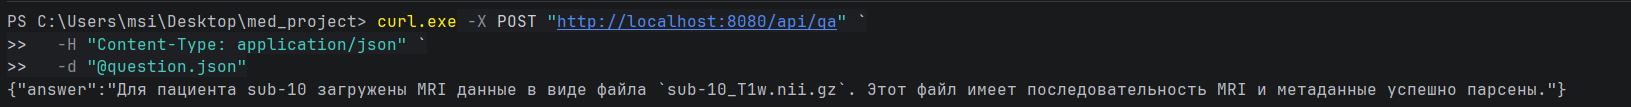
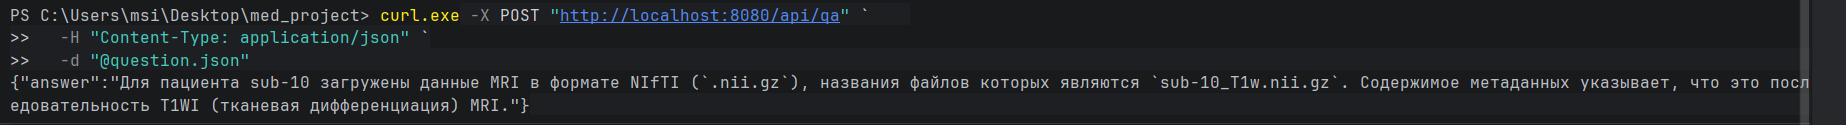
636-01 белова алёна белова юлия

Changed region(s): [[0.0, 0.0, 0.981, 1.0], [0.0, 0.0561, 0.5212, 0.5327]]

diff --git a/src/main/java/com/example/med_project/modality/parser/MriParser.java b/src/main/java/com/example/med_project/modality/parser/MriParser.java
@@ -1,27 +1,71 @@
-//
-// Source code recreated from a .class file by IntelliJ IDEA
-// (powered by Fernflower decompiler)
-//
-
 package com.example.med_project.modality.parser;
 
 import com.example.med_project.modality.Modality;
 import com.example.med_project.model.IngestContext;
+import com.example.med_project.mri.MriFeatureExtractor;
 import com.example.med_project.util.ImageUtils;
+import com.example.med_project.util.NiftiUtils;
+import com.example.med_project.util.NiftiUtils.NiftiVolume;
+import org.springframework.beans.factory.annotation.Autowired;
 import org.springframework.stereotype.Component;
+import org.springframework.web.multipart.MultipartFile;
+
+import java.nio.file.Files;
+import java.nio.file.Path;
+import java.nio.file.Paths;
+import java.io.File;
 
 @Component
 public class MriParser implements ModalityParser {
+
+    @Autowired
+    private MriFeatureExtractor featureExtractor;
+
+    @Override
     public boolean supports(Modality modality) {
         return modality == Modality.MRI;
     }
 
+    @Override
     public IngestContext parse(IngestContext context) {
-        byte[] fakeSlice = ImageUtils.placeholderPng();
-        context.imagesPng().add(fakeSlice);
-        context.putMeta("parsed", true);
-        context.putMeta("sequence", "MRI");
-        context.putMeta("sourceFile", context.file().getOriginalFilename());
+
+        MultipartFile file = context.file();
+
+        try {
+            File temp = File.createTempFile("mri", ".nii.gz");
+            file.transferTo(temp);
+
+            NiftiVolume volume = NiftiUtils.readNiftiGz(temp);
+
+            for (int z = 0; z < volume.dimZ; z++) {
+
+                float[][] slice = NiftiUtils.extractSlice(volume, z);
+
+                // PNG
+                byte[] png = ImageUtils.floatSliceToPng(slice);
+
+                Path dir = Paths.get("slices");
+                Path file_slice = dir.resolve("slice_" + z + ".png");
+
+                Files.write(file_slice, png);
+                context.imagesPng().add(png);
+
+                // TEXT (для embeddings)
+                String text = featureExtractor.extract(slice, z);
+                context.textChunks().add(text);
+            }
+
+            context.putMeta("parsed", true);
+            context.putMeta("modality", "MRI");
+            context.putMeta("slices", volume.dimZ);
+            context.putMeta("dimensions",
+                    volume.dimX + "x" + volume.dimY + "x" + volume.dimZ);
+
+
+        } catch (Exception e) {
+            throw new RuntimeException("MRI parsing failed", e);
+        }
+
         return context;
     }
 }

diff --git a/src/main/java/com/example/med_project/util/NiftiUtils.java b/src/main/java/com/example/med_project/util/NiftiUtils.java
@@ -1,10 +1,79 @@
 package com.example.med_project.util;
 
+import java.io.*;
+import java.nio.*;
+import java.util.zip.GZIPInputStream;
+
 public final class NiftiUtils {
 
-    private NiftiUtils() {
+    private NiftiUtils() {}
+
+    public static class NiftiVolume {
+        public final int dimX;
+        public final int dimY;
+        public final int dimZ;
+        public final float[] data;
+
+        public NiftiVolume(int x, int y, int z, float[] data) {
+            this.dimX = x;
+            this.dimY = y;
+            this.dimZ = z;
+            this.data = data;
+        }
+
+        public float get(int x, int y, int z) {
+            return data[z * dimX * dimY + y * dimX + x];
+        }
     }
 
-    // Заглушка.
-    // Сюда потом добавим чтение .nii.gz и извлечение 2D срезов.
+    public static NiftiVolume readNiftiGz(File file) throws IOException {
+        try (InputStream is = new GZIPInputStream(new FileInputStream(file))) {
+
+            byte[] bytes = is.readAllBytes();
+            ByteBuffer buffer = ByteBuffer.wrap(bytes);
+            buffer.order(ByteOrder.LITTLE_ENDIAN);
+
+            buffer.position(40);
+            buffer.getShort(); // dim count
+            int dimX = buffer.getShort();
+            int dimY = buffer.getShort();
+            int dimZ = buffer.getShort();
+
+            buffer.position(70);
+            short datatype = buffer.getShort();
+
+            buffer.position(108);
+            int offset = (int) buffer.getFloat();
+            buffer.position(offset);
+
+            int total = dimX * dimY * dimZ;
+            float[] data = new float[total];
+
+            if (datatype == 16) { // float32
+                for (int i = 0; i < total; i++) {
+                    data[i] = buffer.getFloat();
+                }
+            } else if (datatype == 4) { // int16
+                for (int i = 0; i < total; i++) {
+                    data[i] = buffer.getShort();
+                }
+            } else {
+                throw new UnsupportedOperationException("Unsupported datatype: " + datatype);
+            }
+
+            return new NiftiVolume(dimX, dimY, dimZ, data);
+        }
+    }
+
+    public static float[][] extractSlice(NiftiVolume volume, int z) {
+        float[][] slice = new float[volume.dimY][volume.dimX];
+
+        for (int y = 0; y < volume.dimY; y++) {
+            for (int x = 0; x < volume.dimX; x++) {
+                slice[y][x] = volume.get(x, y, z);
+            }
+        }
+
+        return slice;
+    }
 }

diff --git a/src/main/java/com/example/med_project/util/ImageUtils.java b/src/main/java/com/example/med_project/util/ImageUtils.java
@@ -1,30 +1,46 @@
 package com.example.med_project.util;
 
 import javax.imageio.ImageIO;
-import java.awt.*;
 import java.awt.image.BufferedImage;
 import java.io.ByteArrayOutputStream;
 
-public final class ImageUtils {
+public class ImageUtils {
 
-    private ImageUtils() {
+    public static byte[] floatSliceToPng(float[][] slice) {
+        int h = slice.length;
+        int w = slice[0].length;
+
+        float min = Float.MAX_VALUE;
+        float max = -Float.MAX_VALUE;
+
+        for (float[] row : slice) {
+            for (float v : row) {
+                min = Math.min(min, v);
+                max = Math.max(max, v);
+            }
+        }
+
+        BufferedImage img = new BufferedImage(w, h, BufferedImage.TYPE_BYTE_GRAY);
+
+        for (int y = 0; y < h; y++) {
+            for (int x = 0; x < w; x++) {
+                float norm = (slice[y][x] - min) / (max - min + 1e-5f);
+                int gray = (int) (norm * 255);
+
+                int rgb = (gray << 16) | (gray << 8) | gray;
+                img.setRGB(x, y, rgb);
+            }
+        }
+
+        try (ByteArrayOutputStream baos = new ByteArrayOutputStream()) {
+            ImageIO.write(img, "PNG", baos);
+            return baos.toByteArray();
+        } catch (Exception e) {
+            throw new RuntimeException(e);
+        }
     }
 
     public static byte[] placeholderPng() {
-        try {
-            BufferedImage image = new BufferedImage(224, 224, BufferedImage.TYPE_BYTE_GRAY);
-            Graphics2D g = image.createGraphics();
-            g.setColor(Color.BLACK);
-            g.fillRect(0, 0, 224, 224);
-            g.setColor(Color.WHITE);
-            g.drawString("MRI PLACEHOLDER", 40, 112);
-            g.dispose();
-
-            ByteArrayOutputStream baos = new ByteArrayOutputStream();
-            ImageIO.write(image, "png", baos);
-            return baos.toByteArray();
-        } catch (Exception e) {
-            throw new RuntimeException("Failed to create placeholder PNG", e);
-        }
+        return new byte[0];
     }
 }

diff --git a/src/main/java/com/example/med_project/mri/SimpleMriFeatureExtractor.java b/src/main/java/com/example/med_project/mri/SimpleMriFeatureExtractor.java
@@ -1,0 +1,33 @@
+package com.example.med_project.mri;
+
+import org.springframework.stereotype.Component;
+
+@Component
+public class SimpleMriFeatureExtractor implements MriFeatureExtractor {
+
+    @Override
+    public String extract(float[][] slice, int z) {
+
+        float sum = 0;
+        float min = Float.MAX_VALUE;
+        float max = Float.MIN_VALUE;
+
+        int count = 0;
+
+        for (float[] row : slice) {
+            for (float v : row) {
+                sum += v;
+                min = Math.min(min, v);
+                max = Math.max(max, v);
+                count++;
+            }
+        }
+
+        float mean = sum / count;
+
+        return String.format(
+                "MRI slice %d: mean=%.4f, min=%.4f, max=%.4f",
+                z, mean, min, max
+        );
+    }
+}

diff --git a/src/main/java/com/example/med_project/model/IngestContext.java b/src/main/java/com/example/med_project/model/IngestContext.java
@@ -13,6 +13,7 @@ public class IngestContext {
     private final MultipartFile file;
     private final Map<String, Object> meta = new HashMap<>();
     private final List<byte[]> imagesPng = new ArrayList<>();
+    private final List<String> textChunks = new ArrayList<>();
 
     private String textMeta = "";
     private float[] embedding;
@@ -41,6 +42,8 @@ public class IngestContext {
     public String textMeta() {
         return textMeta;
     }
+
+    public List<String> textChunks() { return textChunks; }
 
     public void setTextMeta(String textMeta) {
         this.textMeta = textMeta;

diff --git a/src/main/java/com/example/med_project/mri/MriFeatureExtractor.java b/src/main/java/com/example/med_project/mri/MriFeatureExtractor.java
@@ -1,0 +1,5 @@
+package com.example.med_project.mri;
+
+public interface MriFeatureExtractor {
+    String extract(float[][] slice, int sliceIndex);
+}
